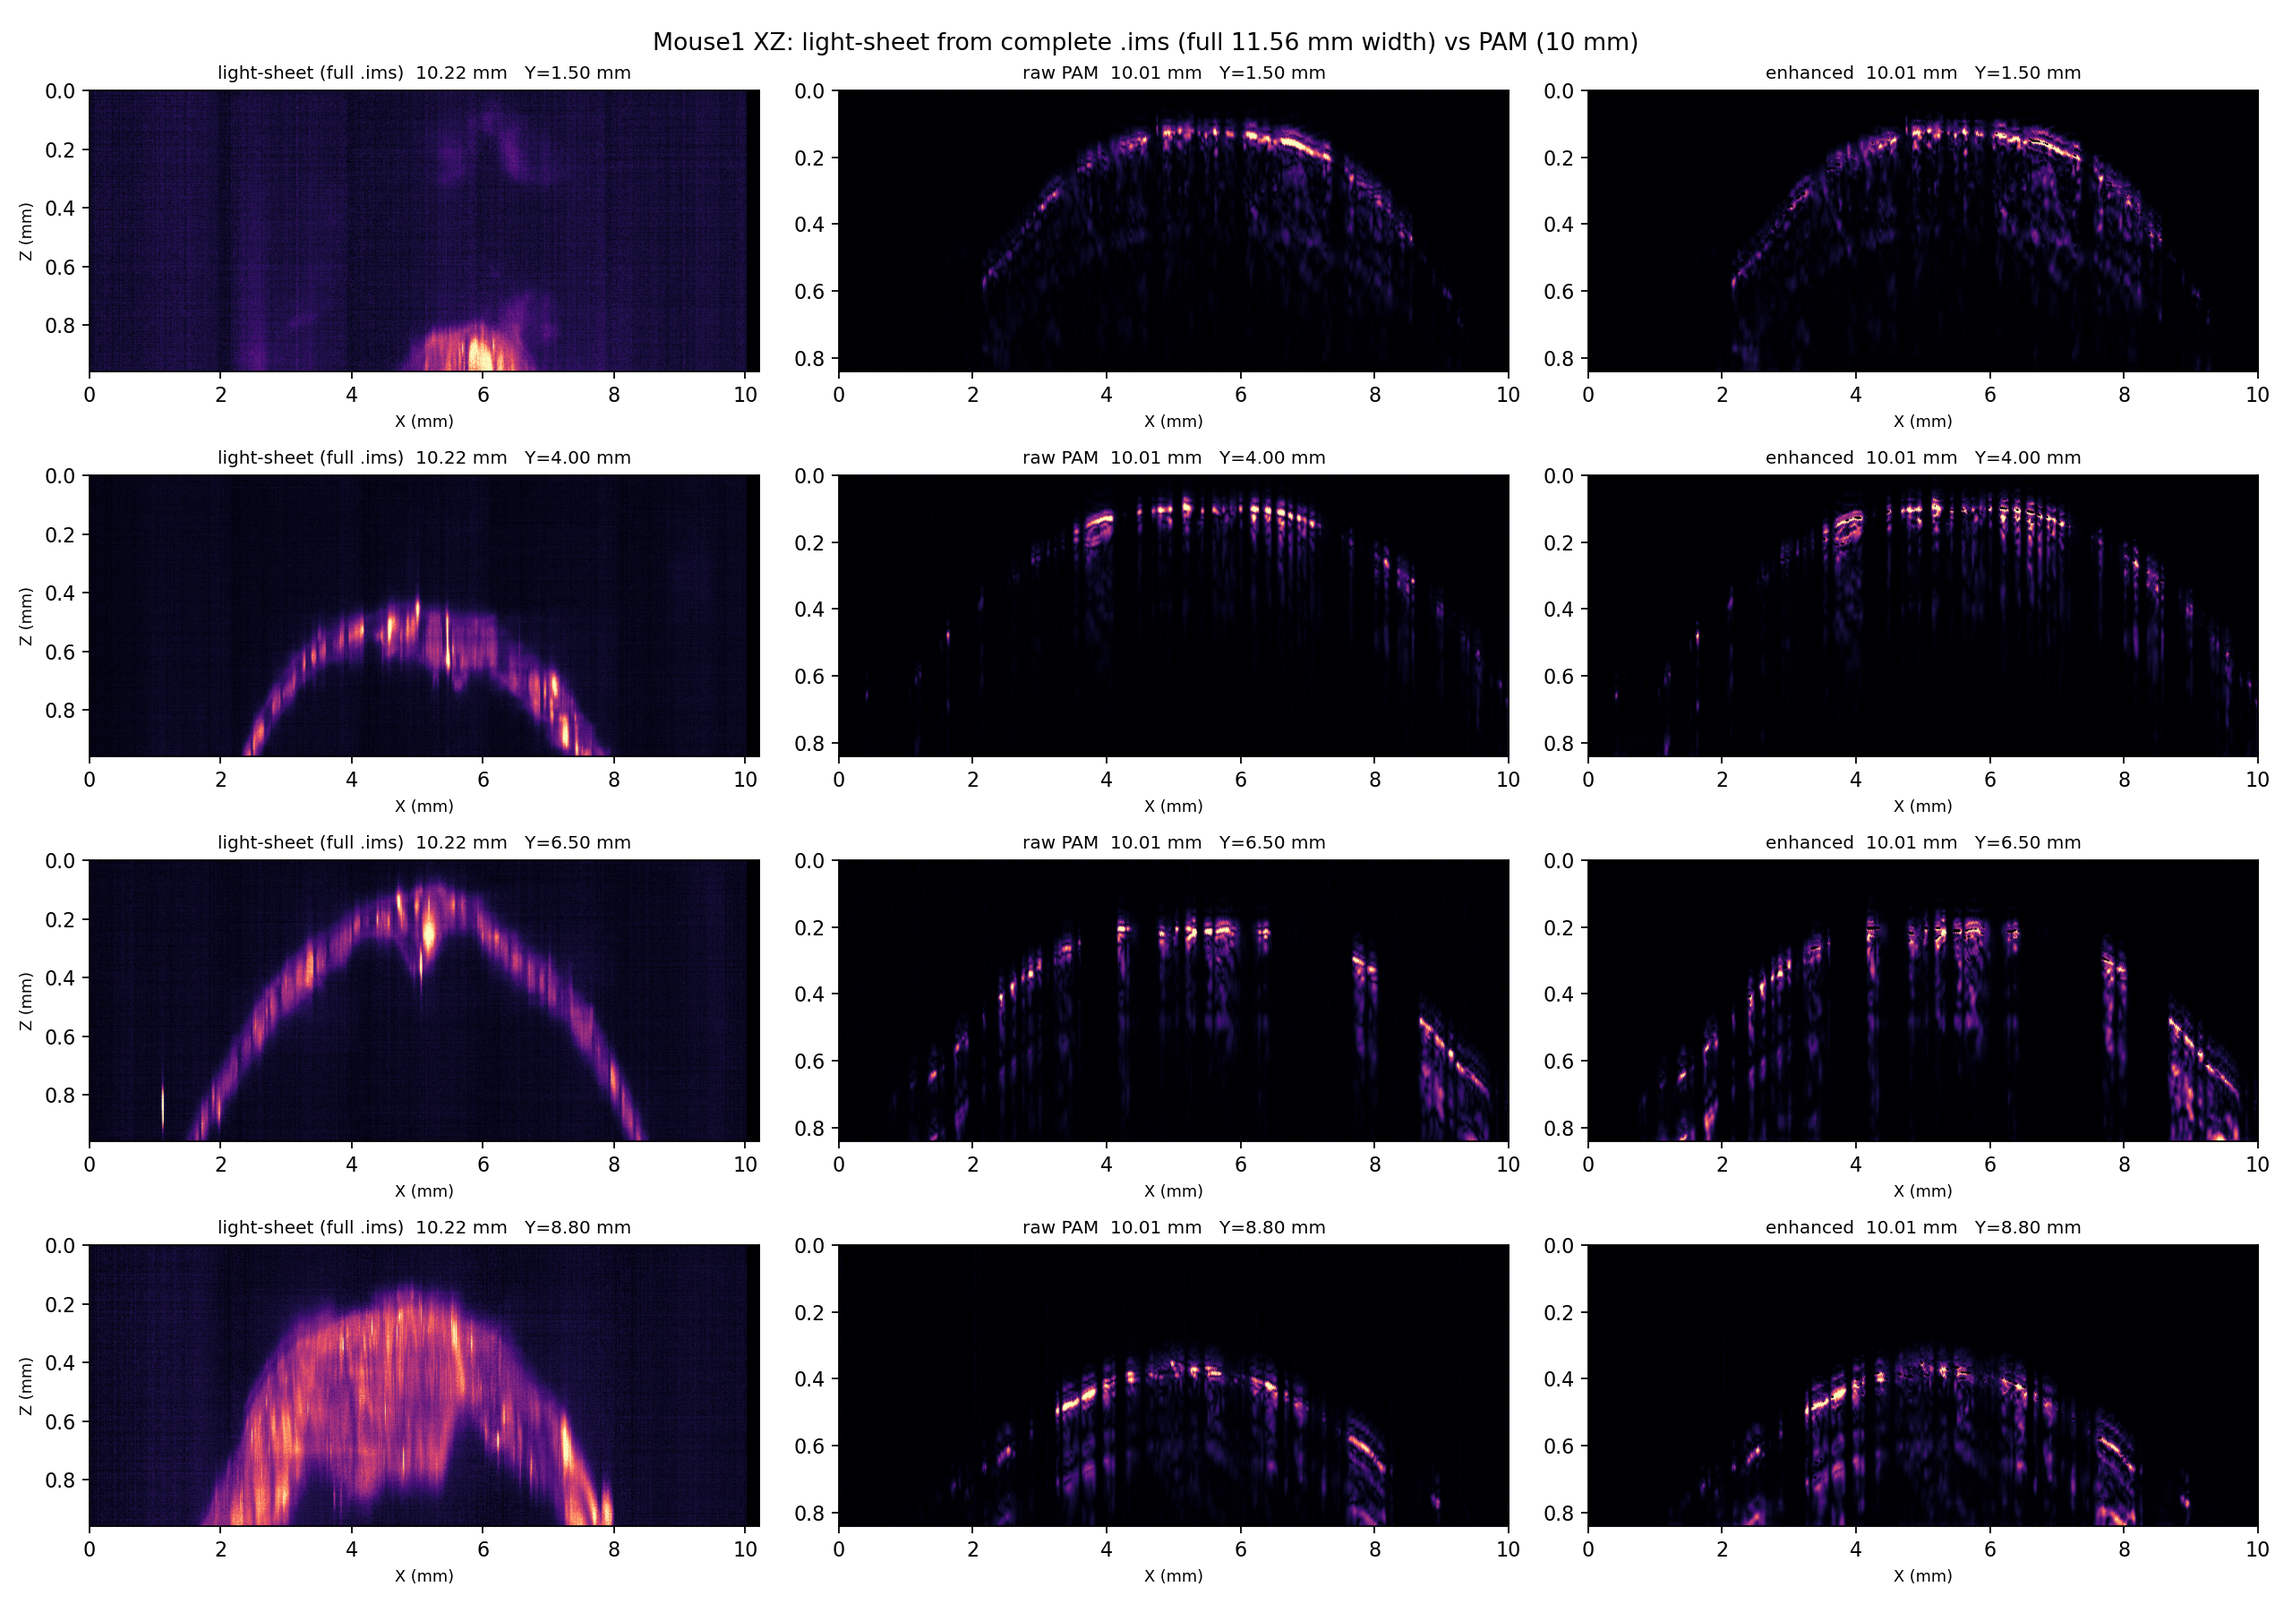
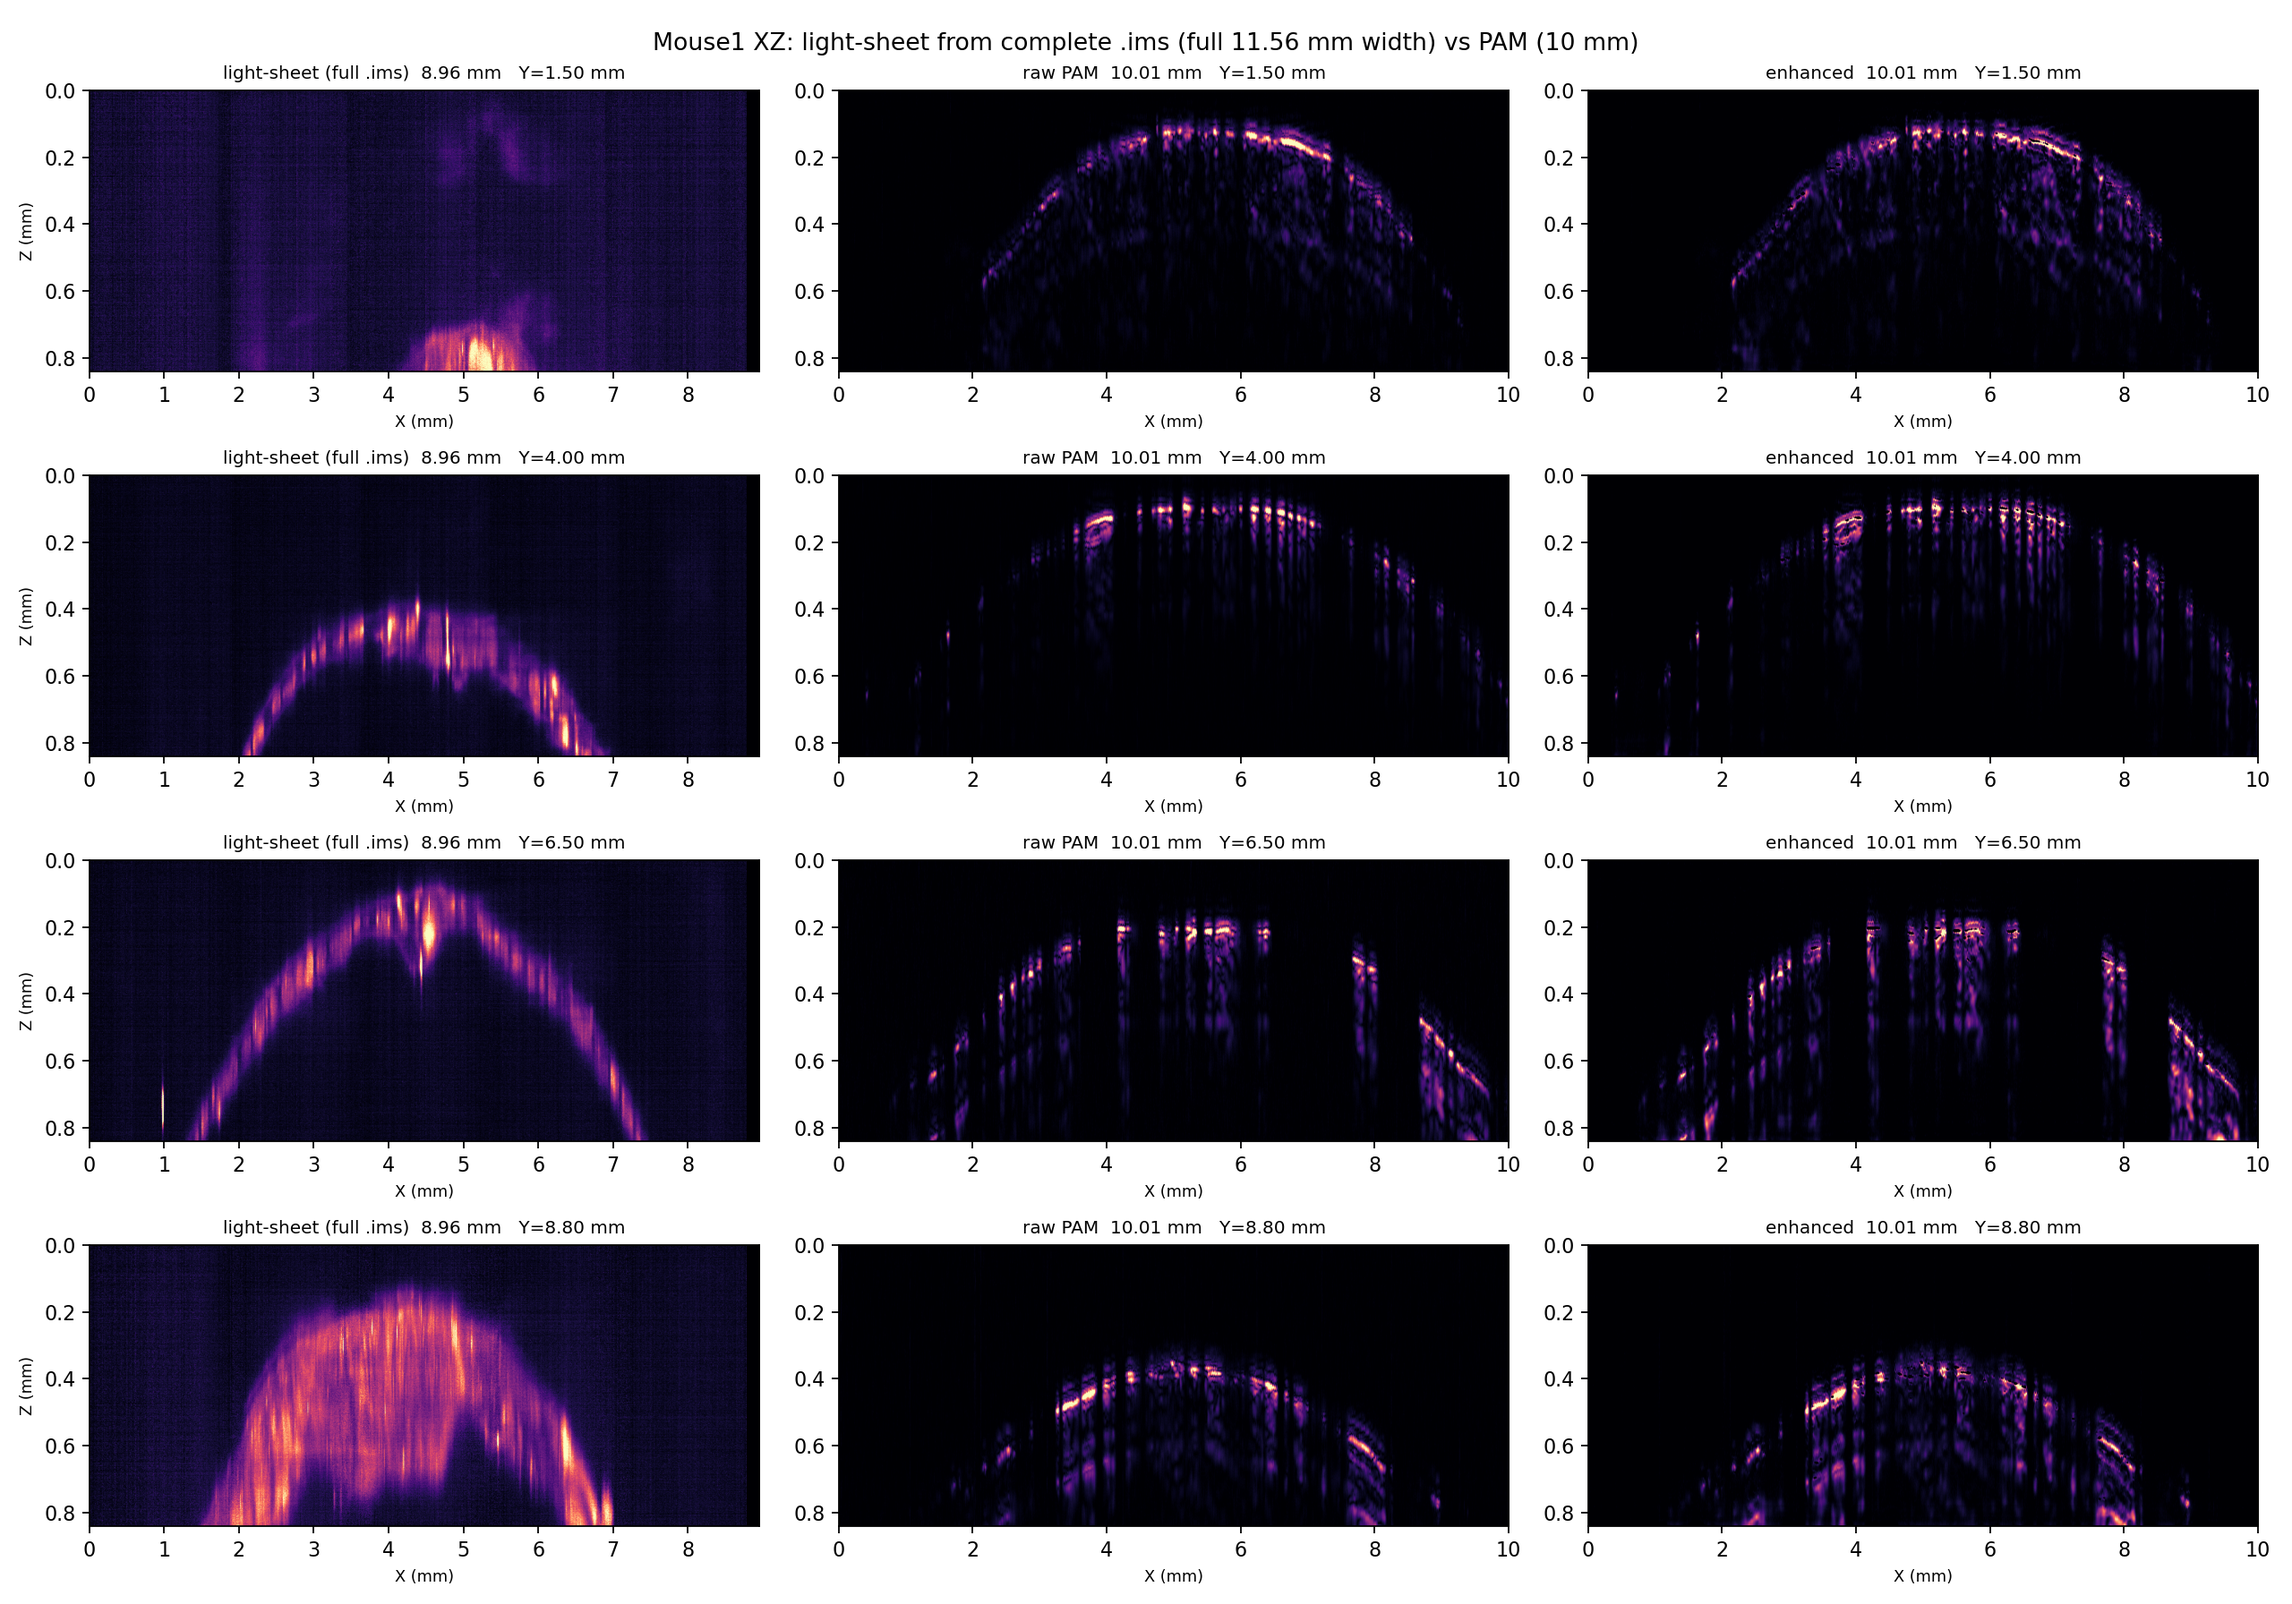
fix: unify Z scale (1.842um/px) and X pitch (2.1um) in full-ims XZ figures

diff --git a/compare_full_xz2.py b/compare_full_xz2.py
@@ -1,0 +1,63 @@
+"""XZ 对比（彩色，统一 Z 尺度 1.842 um/px）：光片完整 .ims，声光/增强 10 mm。用法: python compare_full_xz2.py 4|1"""
+import os
+import sys
+
+import h5py
+import numpy as np
+import matplotlib
+matplotlib.use("Agg")
+import matplotlib.pyplot as plt
+
+import config as C
+
+MOUSE = sys.argv[1] if len(sys.argv) > 1 else "4"
+IMS = rf"D:\tmp\data\{MOUSE}.ims"
+PX = 1.842
+LS_PX = 1.842           # 统一：光片也用 1.842
+NZ = 686
+Z0 = 1311 if MOUSE == "4" else 50
+FLIP = (MOUSE == "4")
+SLICES = r"D:\tmp\work\pam_slices.npy" if MOUSE == "4" else r"D:\tmp\work\pam_slices_1.npy"
+SLICES_E = r"D:\tmp\work\enh_slices.npy" if MOUSE == "4" else r"D:\tmp\work\enh_slices_1.npy"
+
+pam = np.load(SLICES)
+enh = np.load(SLICES_E)
+NZ = pam.shape[1]
+frames = [150, 400, 650, 880]
+
+f = h5py.File(IMS, "r")
+ds = f["DataSet/ResolutionLevel 0/TimePoint 0/Channel 0/Data"]
+NZi, NY, NX = ds.shape
+
+
+def ls_slice(fi):
+    y = C.pam_frame_to_ls_row(fi) + C.LS_Y_START
+    a = ds[Z0:Z0 + NZ, y, :].astype(np.float32)
+    if FLIP:
+        a = a[::-1]
+    a = np.maximum(a - np.percentile(a, 10), 0)
+    n_out = int(round(NX * 2.1 / C.LS_X_BIN_UM))
+    edges = np.linspace(0, NX, n_out + 1).astype(np.int64)
+    return np.add.reduceat(a, edges[:-1], axis=1) / np.diff(edges)[None, :]
+
+
+fig, axs = plt.subplots(len(frames), 3, figsize=(16, 2.8 * len(frames)))
+for r, fi in enumerate(frames):
+    ls = ls_slice(fi)
+    panels = [(f"light-sheet (full .ims) {ls.shape[1]*C.LS_X_BIN_UM/1000:.2f} mm", ls, LS_PX),
+              (f"raw PAM {pam[r].shape[1]*C.LS_X_BIN_UM/1000:.2f} mm", pam[r], PX),
+              (f"enhanced {enh[r].shape[1]*C.LS_X_BIN_UM/1000:.2f} mm", enh[r], PX)]
+    for c, (title, img, pz) in enumerate(panels):
+        ax = axs[r, c]
+        ax.imshow(img, cmap="magma", aspect="auto",
+                  extent=[0, img.shape[1] * C.LS_X_BIN_UM / 1000, img.shape[0] * pz / 1000, 0],
+                  vmin=0, vmax=float(np.percentile(img, 99.9)))
+        ax.set_title(title + f"  Y={fi*C.PAM_FRAME_PITCH_UM/1000:.2f} mm", fontsize=9)
+        ax.set_xlabel("X (mm)", fontsize=8)
+        if c == 0:
+            ax.set_ylabel(f"Z (mm, 1px={pz}um)", fontsize=8)
+fig.suptitle(f"Mouse{MOUSE} XZ: LS from complete .ims, all panels at {PX} um/px", fontsize=12)
+fig.tight_layout()
+p = rf"D:\tmp\result\6\xz_samez_mouse{MOUSE}.png"
+fig.savefig(p, dpi=160)
+print("saved", p)

diff --git a/pam_chain.py b/pam_chain.py
@@ -1,0 +1,59 @@
+"""声光完整处理链：原始 txt 包络 → 正式缓存 → 增强，XZ 与 XY MIP 两套。"""
+import glob
+import os
+
+import numpy as np
+from scipy.signal import hilbert
+import matplotlib
+matplotlib.use("Agg")
+import matplotlib.pyplot as plt
+
+import config as C
+import pam_io
+
+files = pam_io.list_frames(C.PAM_M4_TXT_DIR)
+print("txt 帧数", len(files))
+
+# ---- 原始 txt：包络 + 逐帧背景，保留全部 500 采样 ----
+raw = np.zeros((len(files), 500, 1000), np.float32)
+for i, f in enumerate(files):
+    rf = pam_io.read_rf(f)
+    if pam_io.should_flip(f):
+        rf = rf[:, ::-1]
+    env = np.abs(hilbert(rf, axis=0)).astype(np.float32)     # (samples, A-lines)
+    env = np.maximum(env - np.median(env), 0)
+    raw[i] = env
+    if i % 200 == 0:
+        print(" ", i, flush=True)
+np.save(r"D:\tmp\work\pam_raw_full.npy", raw)
+print("raw", raw.shape)
+
+cache, _ = pam_io.load_cache(rD:	mp\work_pam_full686.npy)
+enh = np.load(os.path.join(C.WORK_DIR, "mouse4_enhanced_v2.npy"), mmap_mode="r")
+
+fi = 400
+fig, axs = plt.subplots(2, 3, figsize=(16, 8))
+imgs_top = [(raw[fi], "raw txt (envelope, 1500 um)", 500 * C.PAM_RF_PITCH_UM / 1000),
+            (np.asarray(cache[fi]), "processed cache (1264 um)", cache.shape[1] * 1.842 / 1000),
+            (np.asarray(enh[fi]), "enhanced", cache.shape[1] * 1.842 / 1000)]
+for c, (img, t, zmm) in enumerate(imgs_top):
+    ax = axs[0, c]
+    ax.imshow(img, cmap="magma", aspect="auto", extent=[0, 10, zmm, 0], vmin=0,
+              vmax=float(np.percentile(img, 99.9)))
+    ax.set_title(f"{t}  f{fi}", fontsize=10)
+    ax.set_xlabel("X (mm)"); ax.set_ylabel("Z (mm)" if c == 0 else "")
+
+mip_raw = raw.max(axis=1)
+mip_cache = np.asarray(cache).max(axis=1)
+mip_enh = np.asarray(enh).max(axis=1)
+for c, (img, t) in enumerate([(mip_raw, "raw txt XY MIP"), (mip_cache, "cache XY MIP"),
+                              (mip_enh, "enhanced XY MIP")]):
+    ax = axs[1, c]
+    ax.imshow(img, cmap="magma", aspect="equal", extent=[0, 10, len(files) * 0.01, 0], vmin=0,
+              vmax=float(np.percentile(img, 99.5)))
+    ax.set_title(t, fontsize=10); ax.set_xlabel("X (mm)"); ax.set_ylabel("Y (mm)" if c == 0 else "")
+fig.suptitle("Complete PAM processing chain (mouse4): raw txt -> processed -> enhanced", fontsize=12)
+fig.tight_layout()
+p = r"D:\tmp\result\6\pam_chain.png"
+fig.savefig(p, dpi=150)
+print("saved", p)
